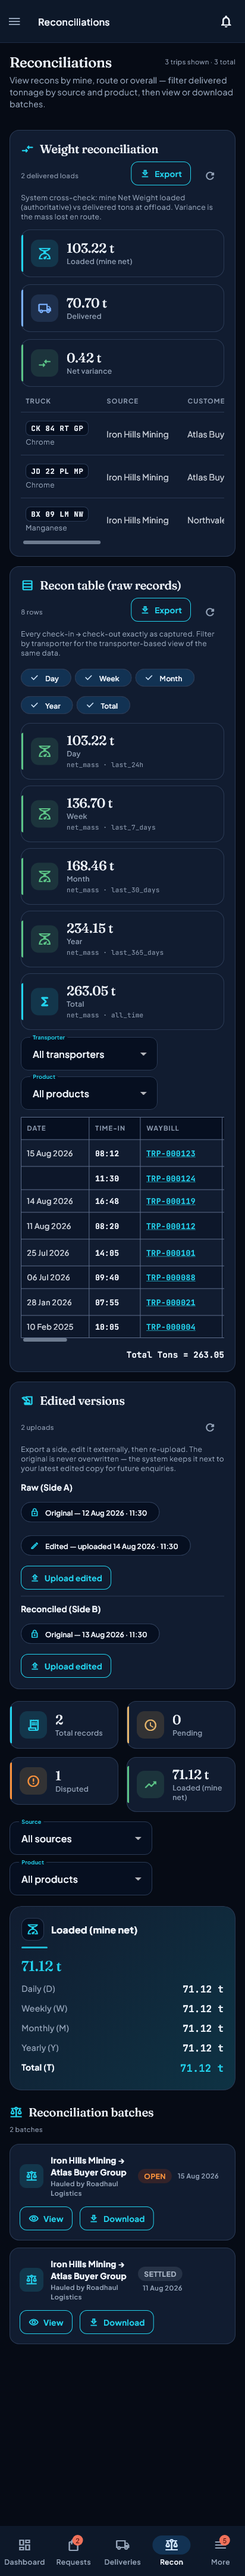
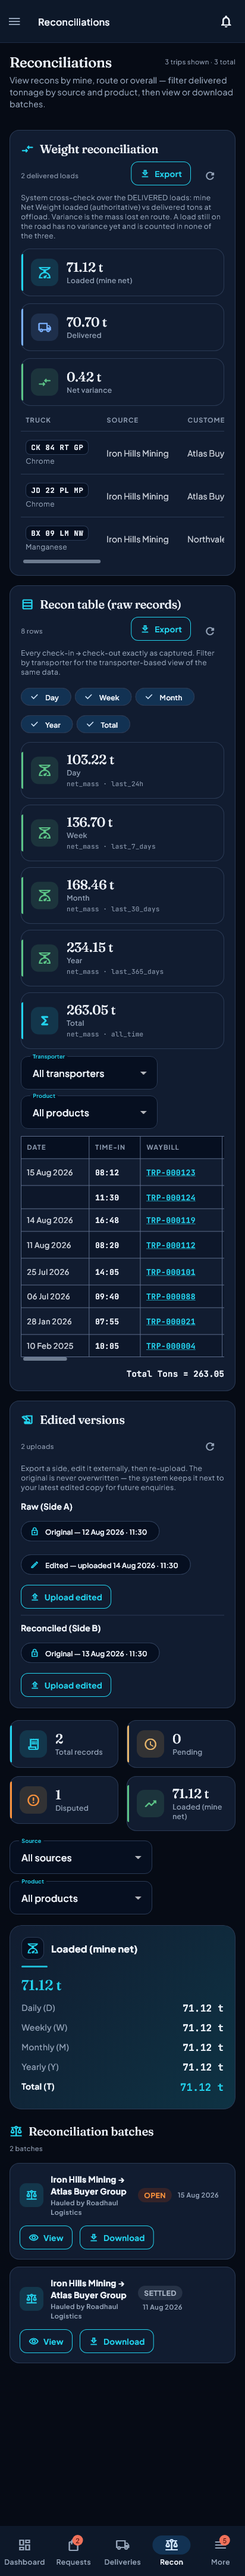
fix(recon): the three weight-reconciliation figures cover the same loads, so they reconcile
Found by LOOKING at `screen-buyer-reconciliations-desktop-dark` — which had to
be created first, because only the phone had ever been photographed. No
reviewer raised it. Three goldens move (buyer, mine, transporter: the widget is
shared), and three new ones are added.

The card row read `103.22 t Loaded (mine net) · 70.70 t Delivered · 0.42 t Net
variance` over a table of three trips, one of them still `Pending`. "Loaded"
summed EVERY row; "Delivered" and "Net variance" summed the delivered ones. Two
populations, side by side, under a caption that directly invites the
subtraction: "mine Net Weight loaded (authoritative) vs delivered tons at
offload. Variance is the mass lost en route."

103.22 − 70.70 is 32.52. A reader checking the cross-check got a figure
seventy-seven times the real variance, on the screen whose entire purpose is to
say whether mass went missing between the mine and the port. It now reads
71.12 · 70.70 · 0.42, and 71.12 − 70.70 = 0.42.

THE FILE ALREADY KNEW. The correct figure was being computed under the name
`deliveredLoaded` to serve as the severity denominator, under a comment saying
`totalLoaded` "includes loads still on the road, which have no variance yet and
would dilute the percentage toward zero". The same reasoning applies to the
card a reader compares against; only the denominator had been fixed.

Nothing is hidden. The load still on the road keeps its row and its mine net
[…]

Changed region(s): [[0.0291, 0.0625, 0.9612, 0.9371], [0.6117, 0.3436, 0.6408, 0.3748]]

diff --git a/test/features/portal/weight_reconciliation_totals_test.dart b/test/features/portal/weight_reconciliation_totals_test.dart
@@ -1,0 +1,167 @@
+// The three weight-reconciliation figures cover the same loads, so they
+// reconcile.
+//
+// Found by LOOKING at `screen-buyer-reconciliations-desktop-dark`, which had
+// to be created first — only the phone had ever been photographed. Buyer pass,
+// 2026-08-23; no reviewer raised it.
+//
+// The card row read `103.22 t Loaded (mine net) · 70.70 t Delivered · 0.42 t
+// Net variance` over a table of three trips, one of them still `Pending`.
+// "Loaded" summed EVERY row; "Delivered" and "Net variance" summed the
+// delivered ones. 103.22 − 70.70 is 32.52, and the caption directly invites
+// that subtraction — "mine Net Weight loaded (authoritative) vs delivered tons
+// at offload. Variance is the mass lost en route." So a reader checking the
+// cross-check got a number seventy-seven times the real variance, on the
+// screen whose whole purpose is to say whether mass went missing en route.
+//
+// The file already knew: the same figure was computed under the name
+// `deliveredLoaded` to serve as the severity denominator, under a comment
+// saying `totalLoaded` "includes loads still on the road, which have no
+// variance yet". Only the denominator had been fixed.
+//
+// Nothing is hidden by the change: the load still on the road keeps its row
+// and its mine net (`Pending` in the Delivered column), and the raw recon
+// table below totals every row.
+
+import 'package:flutter/material.dart';
+import 'package:flutter_riverpod/flutter_riverpod.dart';
+import 'package:flutter_test/flutter_test.dart';
+import 'package:shared_preferences/shared_preferences.dart';
+import 'package:supabase_flutter/supabase_flutter.dart';
+
+import 'package:flutter_application_1/core/design/components/ml_components.dart';
+import 'package:flutter_application_1/core/theme/app_theme.dart';
+import 'package:flutter_application_1/features/auth/models/user_type.dart';
+import 'package:flutter_application_1/features/portal/screens/buyer_reconciliations_screen.dart';
+import 'package:flutter_application_1/features/portal/widgets/weight_reconciliation_view.dart';
+
+import '../../fixtures/portal_capture_fixtures.dart';
+import '../../fixtures/portal_tail_fixtures.dart';
+import '../../fixtures/screen_fixtures.dart';
+import '../../test_helpers/real_fonts.dart';
+import '../../test_helpers/frozen_clock.dart';
+
+void main() {
+  setUpAll(() async {
+    freezeCaptureClock();
+    await loadRealFonts();
+    SharedPreferences.setMockInitialValues({});
+    await Supabase.initialize(
+      url: 'http://localhost:54321',
+      anonKey: 'weight-reconciliation-totals-test',
+    );
+  });
+
+  Future<void> pump(WidgetTester tester) async {
+    tester.view.physicalSize = const Size(1600, 3400);
+    tester.view.devicePixelRatio = 1.0;
+    addTearDown(tester.view.reset);
+    await tester.pumpWidget(
+      ProviderScope(
+        overrides: [
+          ...companyScopeOverrides(
+            role: UserRole.admin,
+            orgType: OrgType.buyer,
+          ),
+          ...portalCaptureOverrides(),
+          ...portalTailOverrides(),
+        ],
+        child: MaterialApp(
+          theme: AppTheme.darkTheme,
+          home: const Scaffold(body: BuyerReconciliationsScreen()),
+        ),
+      ),
+    );
+    await tester.pump();
+    await tester.pump(const Duration(milliseconds: 800));
+  }
+
+  /// The three figures the cross-check draws, by label, as numbers.
+  Map<String, double> figures(WidgetTester tester) {
+    final cards = tester.widgetList<MlStatCard>(
+      find.descendant(
+        of: find.byType(WeightReconciliationView),
+        matching: find.byType(MlStatCard),
+      ),
+    );
+    return {
+      for (final c in cards)
+        c.label: double.parse(c.value.replaceAll(RegExp(r'[^0-9.\-]'), '')),
+    };
+  }
+
+  testWidgets('loaded minus delivered is the variance', (tester) async {
+    await pump(tester);
+
+    final f = figures(tester);
+    expect(f.keys, containsAll(['Loaded (mine net)', 'Delivered']));
+    final loaded = f['Loaded (mine net)']!;
+    final delivered = f['Delivered']!;
+    final variance = f['Net variance']!;
+
+    expect(
+      loaded - delivered,
+      closeTo(variance, 0.01),
+      reason:
+          'the caption asks the reader to subtract these two. $loaded − '
+          '$delivered = ${(loaded - delivered).toStringAsFixed(2)}, and the '
+          'third card says $variance',
+    );
+  });
+
+  testWidgets('a load still on the road is in none of the three', (
+    tester,
+  ) async {
+    await pump(tester);
+
+    // The fixture deliberately carries an undelivered trip; without one this
+    // test proves nothing, because every population is then the same.
+    expect(
+      find.descendant(
+        of: find.byType(WeightReconciliationView),
+        matching: find.text('Pending'),
+      ),
+      findsWidgets,
+      reason: 'the fixture must include a trip that has not been delivered',
+    );
+
+    final f = figures(tester);
+    // Its mine net would push "Loaded" above the delivered total by far more
+    // than any real variance.
+    expect(
+      f['Loaded (mine net)']! - f['Delivered']!,
+      lessThan(5),
+      reason:
+          'a pending load\'s tonnage is in "Loaded" — it is not missing mass, '
+          'it simply has not arrived',
+    );
+  });
+
+  // The GREEN case, and the thing that stops this being a fix by deletion: the
+  // pending load is still ON the screen, with its mine net, in its own row.
+  testWidgets('the pending load keeps its row and its tonnage', (tester) async {
+    await pump(tester);
+
+    final table = find.byType(WeightReconciliationView);
+    expect(
+      find.descendant(of: table, matching: find.textContaining('32.10')),
+      findsWidgets,
+      reason:
+          'the load still on the road is excluded from the CROSS-CHECK, not '
+          'from the screen',
+    );
+  });
+
+  testWidgets('the caption says which loads the three figures cover', (
+    tester,
+  ) async {
+    await pump(tester);
+    expect(
+      find.textContaining('DELIVERED loads'),
+      findsWidgets,
+      reason:
+          'three totals over a subset must say so; the previous caption said '
+          'the opposite by omission',
+    );
+  });
+}

diff --git a/lib/features/portal/widgets/weight_reconciliation_view.dart b/lib/features/portal/widgets/weight_reconciliation_view.dart
@@ -137,8 +137,10 @@ class WeightReconciliationView extends ConsumerWidget {
           ),
           const SizedBox(height: 4),
           Text(
-            'System cross-check: mine Net Weight loaded (authoritative) vs '
-            'delivered tons at offload. Variance is the mass lost en route.',
+            'System cross-check over the DELIVERED loads: mine Net Weight '
+            'loaded (authoritative) vs delivered tons at offload. Variance '
+            'is the mass lost en route. A load still on the road has no '
+            'variance yet and is counted in none of the three.',
             style: Theme.of(context)
                 .textTheme
                 .bodySmall
@@ -170,17 +172,35 @@ class WeightReconciliationView extends ConsumerWidget {
                 disputesByTrip.putIfAbsent(x.tripId, () => x);
               }
               final delivered = rows.where((r) => r.isDelivered).toList();
-              final totalLoaded = rows.fold<double>(
-                  0, (s, r) => s + (r.mineNetTons ?? 0));
               final totalDelivered = delivered.fold<double>(
                   0, (s, r) => s + (r.deliveredTons ?? 0));
               final totalVariance = delivered.fold<double>(
                   0, (s, r) => s + (r.variance ?? 0));
-              // The denominator for the TOTAL's severity is the loaded mass of
-              // the delivered rows only — `totalLoaded` includes loads still on
-              // the road, which have no variance yet and would dilute the
-              // percentage toward zero.
-              final deliveredLoaded = delivered.fold<double>(
+              // ALL THREE FIGURES COVER THE SAME LOADS, AND THAT IS THE WHOLE
+              // POINT OF THEM.
+              //
+              // This used to be two populations side by side: "Loaded" summed
+              // EVERY row and "Delivered" summed the delivered ones. So
+              // `screen-buyer-reconciliations-desktop-dark` read `103.22 t
+              // loaded · 70.70 t delivered · 0.42 t net variance` over a table
+              // of three trips, one of them still Pending. 103.22 − 70.70 is
+              // 32.52. A reader doing the subtraction the caption invites —
+              // "mine Net Weight loaded (authoritative) vs delivered tons at
+              // offload… the mass lost en route" — gets a number seventy-seven
+              // times the real variance, on the screen that exists to say
+              // whether mass went missing.
+              //
+              // The file already knew. This figure was being computed under
+              // the name `deliveredLoaded` for the severity denominator, with
+              // a comment saying `totalLoaded` "includes loads still on the
+              // road, which have no variance yet". The same reasoning applies
+              // to the card a reader compares against; only the denominator
+              // had been fixed.
+              //
+              // A load still on the road is not missing mass, and its tonnage
+              // is not withheld: it is in the row above it (`Pending`), and
+              // the raw recon table below totals every row.
+              final totalLoaded = delivered.fold<double>(
                   0, (s, r) => s + (r.mineNetTons ?? 0));
 
               return Column(
@@ -209,7 +229,7 @@ class WeightReconciliationView extends ConsumerWidget {
                         label: 'Net variance',
                         value: _t(totalVariance),
                         icon: Icons.compare_arrows_rounded,
-                        tone: _varianceTone(totalVariance, deliveredLoaded),
+                        tone: _varianceTone(totalVariance, totalLoaded),
                       ),
                     ];
                     return Wrap(

diff --git a/test/renders/redesign_renders_test.dart b/test/renders/redesign_renders_test.dart
@@ -1436,6 +1436,48 @@ void main() {
       );
     });
 
+    // AND IN THE DEFAULT THEME. The light one above exists because this is
+    // "the light theme's densest table"; it was also the ONLY picture of
+    // this screen, and the app opens dark. The mine pass has already shown
+    // what an unphotographed variant costs — `BuyerRequestsScreen` was
+    // counted as photographed for a year while every picture was the
+    // buyer's half of it (`8b9e71e`).
+    testWidgets('buyer loads & value — desktop dark', (tester) async {
+      await shoot(
+        tester,
+        screen(
+          brightness: Brightness.dark,
+          child: const BuyerLoadsValueScreen(),
+          title: 'Fixture Metals',
+          subtitle: 'Loads & value',
+          orgType: OrgType.buyer,
+          role: UserRole.admin,
+          selectedRoute: '/portal/buyer/loads-value',
+          extraOverrides: allPortalOverrides(),
+        ),
+        const Size(1600, 1700),
+        'screen-buyer-loads-value-desktop-dark',
+      );
+    });
+
+    testWidgets('buyer loads & value — phone dark', (tester) async {
+      await shoot(
+        tester,
+        screen(
+          brightness: Brightness.dark,
+          child: const BuyerLoadsValueScreen(),
+          title: 'Fixture Metals',
+          subtitle: 'Loads & value',
+          orgType: OrgType.buyer,
+          role: UserRole.admin,
+          selectedRoute: '/portal/buyer/loads-value',
+          extraOverrides: allPortalOverrides(),
+        ),
+        const Size(412, 2600),
+        'screen-buyer-loads-value-phone-dark',
+      );
+    });
+
     testWidgets('trucks on route — phone dark', (tester) async {
       await shoot(
         tester,
@@ -1686,6 +1728,27 @@ void main() {
         ),
         const Size(412, 4322),
         'screen-buyer-reconciliations-phone-dark',
+      );
+    });
+
+    // The same screen at the width a buyer's admin actually reads it at.
+    // Only the phone had ever been photographed, and the two tables on it
+    // are the widest things the buyer owns.
+    testWidgets('buyer reconciliations — desktop dark', (tester) async {
+      await shoot(
+        tester,
+        screen(
+          brightness: Brightness.dark,
+          child: const BuyerReconciliationsScreen(),
+          title: 'Fixture Metals',
+          subtitle: 'Reconciliations',
+          orgType: OrgType.buyer,
+          role: UserRole.admin,
+          selectedRoute: '/portal/buyer/reconciliations',
+          extraOverrides: allPortalOverrides(),
+        ),
+        const Size(1600, 3000),
+        'screen-buyer-reconciliations-desktop-dark',
       );
     });
   });
